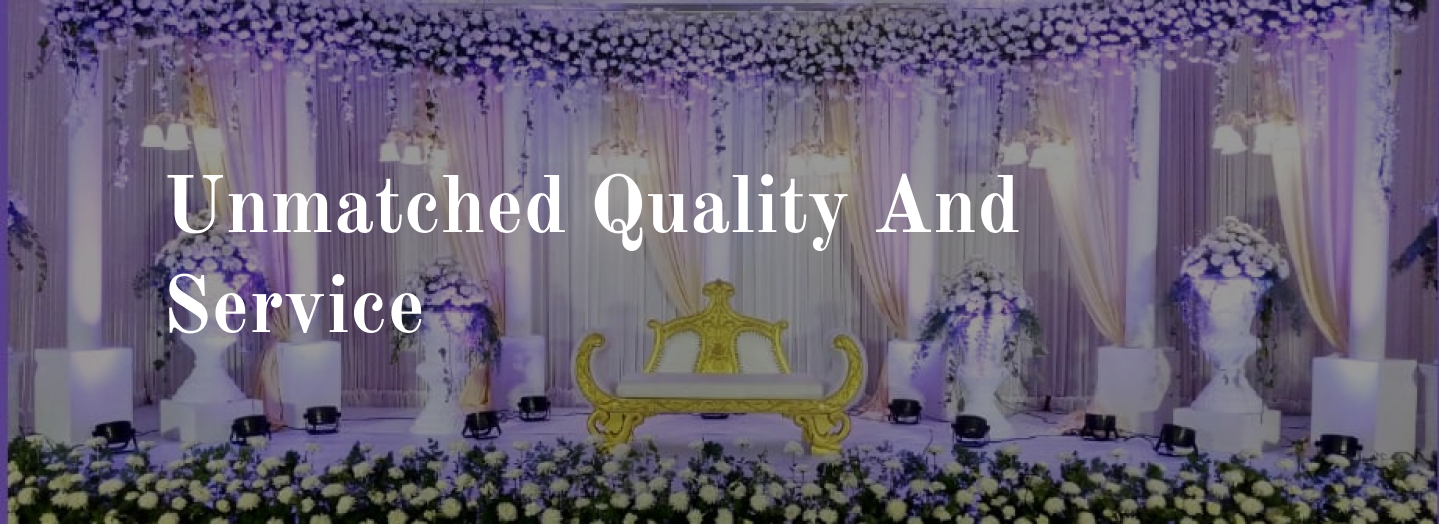
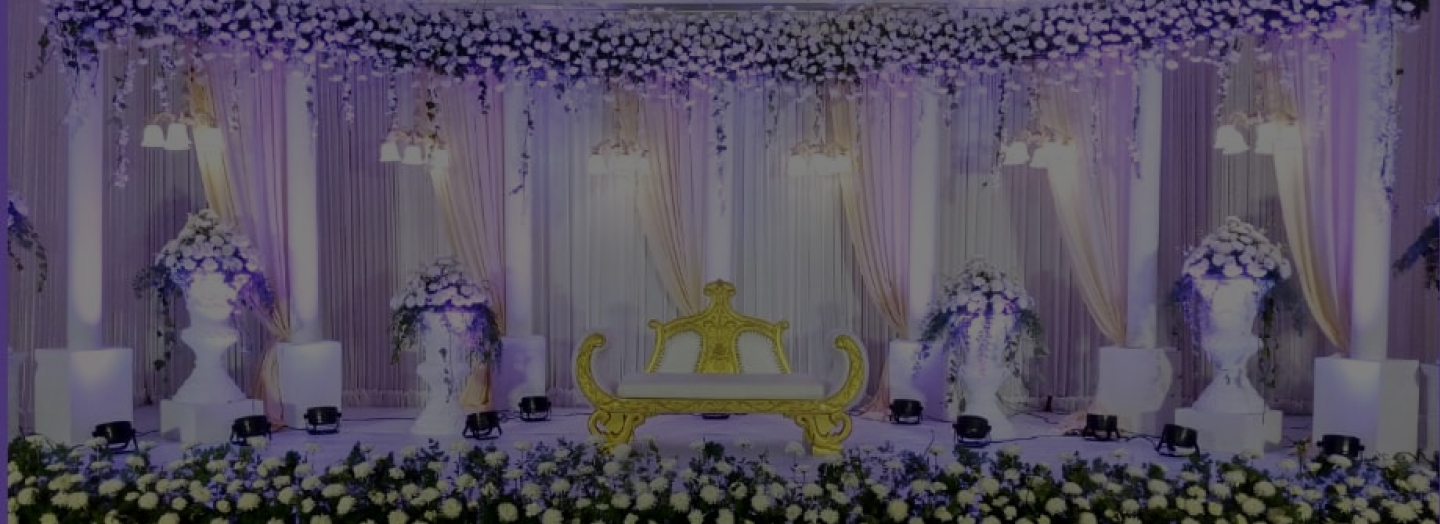
services page completed with responsiveness

diff --git a/src/Components/Services1.js b/src/Components/Services1.js
@@ -1,9 +1,10 @@
 import React from 'react'
-import bg5 from '../assets/WhatsApp Image 2024-05-08 at 11.44.10_e34a28c8.jpg';
-import bg1 from '../assets/coordination.png';
 import Cards from './Cards';
 import unmatch from '../assets/service unmatch.png';
-import hall from '../assets/hall1.png';
+import wedser from '../assets/WhatsApp Image 2024-05-08 at 11.44.10_9af52197.jpg';
+import entdecser from '../assets/EntranceDecorationServices.png';
+import birdecser from '../assets/BirthdayDecorationServices.png';
+import peacock from '../assets/PeacockBG.png';
 
 const Service1 = () => {
     return (
@@ -11,116 +12,127 @@ const Service1 = () => {
             <div>
                 <div>
                     <div>
-                        <p className='uppercase text-4xl font-serif mx-40 font-semibold my-8 text-blue-600'>Services We Offer</p>
+                        <p className='uppercase text-2xl md:text-4xl font-serif mx-4 md:mx-40 font-semibold my-8 text-blue-800'>Services We Offer</p>
                     </div>
                     <Cards />
                     <div>
-                        <p className='font-serif mx-8 md:mx-40 md:text-5xl text-3xl text-yellow-400 my-20 font-light'>
-                            Unmatched Quality and Service
+                        <div className='hidden md:flex justify-end py-0'>
+                            <img src={peacock} alt='peacock' className=''/>
+                        </div>
+                        <p className='font-serif mx-8 md:mx-40 md:text-5xl text-3xl my-10 md:my-0 text-blue-800 font-semibold'>
+                            Types Of Services We Offer
                         </p>
-                        <div className='grid md:grid-cols-2 grid-cols-1 mx-8 md:mx-40'>
-                            <div>
-                            <img src={unmatch} alt='unmatch' className='h-[100%] w-[100%]' />
+                        <div className='bg-gradient-to-b from-[#ffd8ab] via-ffd8ab to-[#eda754] mx-4 my-5 md:ml-40 md:mr-20 rounded-3xl md:my-10'>
+                            <div className='mx-8 md:mx-14 md:text-4xl text-2xl py-4 text-blue-800 font-semibold underline'>
+                                Unmatched Quality and Service
                             </div>
-                            <div>
-                                <p className='font-serif font-light leading-relaxed text-2xl md:mx-10 mx-0 my-2 md:my-0'>
-                                At Raja Decors, quality and service are at the heart of everything we do.
-                                 We source only the freshest blooms from trusted growers, hand-selecting
-                                  each stem for its beauty and vitality. Our commitment to excellence 
-                                  extends beyond our designs to our personalized service, ensuring a 
-                                  seamless and stress-free experience from concept to execution.
-                                </p>
-                            </div>
-                        </div>
-                        <p className='font-serif mx-8 md:mx-40 text-3xl md:text-5xl text-blue-600 my-20 font-light'>
-                        Wedding Reception & Mugurtham 
-                        </p>
-                        <div className='grid md:grid-cols-2 grid-cols-1 mx-8 md:mx-40'>
-                            <div>
-                            <img src={hall} alt='unmatch' className='h-[100%] w-[100%]' />
-                            </div>
-                            <div>
-                                <p className='font-serif font-light leading-relaxed text-2xl mx-0 md:mx-10 my-2 md:my-0'>
-                                At Raja Decors, quality and service are at the heart of everything we do.
-                                 We source only the freshest blooms from trusted growers, hand-selecting
-                                  each stem for its beauty and vitality. Our commitment to excellence 
-                                  extends beyond our designs to our personalized service, ensuring a 
-                                  seamless and stress-free experience from concept to execution.
-                                </p>
+                            <div className='grid md:grid-cols-2 grid-cols-1 mx-8 md:mx-14 py-2 pb-8'>
+                                <div>
+                                    <img src={unmatch} alt='unmatch' className='h-[100%] w-[100%] rounded-3xl' />
+                                </div>
+                                <div>
+                                    <p className='font-serif font-light leading-relaxed text-xl md:text-2xl md:mx-10 mx-0 my-2 md:my-0'>
+                                    At Raja Decors, quality and service are at the heart of everything we do.
+                                    We source only the freshest blooms from trusted growers, hand-selecting
+                                    each stem for its beauty and vitality. Our commitment to excellence 
+                                    extends beyond our designs to our personalized service, ensuring a 
+                                    seamless and stress-free experience from concept to execution.
+                                    </p>
+                                </div>
                             </div>
                         </div>
-                    </div>
-                </div>
-                <div className='grid md:grid-cols-3 grid-cols-1 md:mx-32 mx-10 space-y-6 md:space-y-10 my-10'>
-                    <div className='w-80 shadow-2xl drop-shadow-2xl border-gray-800 rounded-3xl px-3 py-4 hover:scale-105 transition transform'>
-                        <img src={bg5} alt='Decoration' className='w-[100%] h-60 rounded-md' height={100} width={100} />
-                        <div>
-                            <p className='text-xl font-serif my-3 font-semibold'>
-                                Wedding Decoration
-                            </p>
-                            <p className='text-sm my-3 font-light'>
-                                Wishing your Event held a grand
-                                style? We promise to provide the
-                                perfect decorations.
-                            </p>
-                            <button className='border border-[#F1518B] hover:bg-[#F1518B] hover:text-white px-16 py-2 rounded-3xl font-semibold'>Read More</button>
+
+                        <div className='bg-gradient-to-b from-[#ffd8ab] via-ffd8ab to-[#eda754] mx-4 my-5 md:ml-40 md:mr-20 rounded-3xl md:my-10'>
+                            <div className='mx-8 md:mx-24 md:text-4xl text-2xl py-4 text-blue-800 font-semibold underline'>
+                                Wedding Reception & Mugurtham
+                            </div>
+                            <div className='grid md:grid-cols-2 grid-cols-1 mx-8 md:mx-14 py-2 pb-8'>
+                                <div className='md:hidden'>
+                                    <img src={wedser} alt='wedser' className='h-[100%] w-[100%] rounded-3xl' />
+                                </div>
+                                <div>
+                                    <p className='font-serif font-light leading-relaxed text-xl md:text-2xl md:mx-10 mx-0 my-2 md:my-0'>
+                                        Our ceremonies blend cultural grace with contemporary elegance, 
+                                        merging tradition and modernity for cherished moments embodying 
+                                        love and commitment. Each celebration exudes timeless beauty and 
+                                        joy, uniting hearts in an ambiance of cultural richness and modern 
+                                        sophistication, creating unforgettable memories that last a lifetime.
+                                    </p>
+                                </div>
+                                <div className='hidden md:flex'>
+                                    <img src={wedser} alt='wedser' className='h-[100%] w-[100%] rounded-3xl' />
+                                </div>
+                            </div>
                         </div>
-                    </div>
-                    <div className='w-80 shadow-2xl drop-shadow-2xl border-gray-800 rounded-3xl px-3 py-4 hover:scale-105 transition transform'>
-                        <img src={bg5} alt='Catering' className='w-[100%] h-60 rounded-md' height={100} width={100} />
-                        <div>
-                            <p className='text-xl font-serif my-3 font-semibold'>
-                                Birthday Decoration
-                            </p>
-                            <p className='text-sm my-3 font-light'>
-                                Customized catering for any occasion.
-                                We tailor menus to your taste, ensuring every dish reflects
-                                your unique style and vision.
-                            </p>
-                            <button className='border border-[#F1518B] hover:bg-[#F1518B] hover:text-white px-16 py-2 rounded-3xl font-semibold'>Read More</button>
-                        </div>
-                    </div>
-                    <div className='w-80 shadow-2xl drop-shadow-2xl border-gray-800 rounded-3xl px-3 py-4 hover:scale-105 transition transform'>
-                        <img src={bg1} alt='coordination' className='w-[100%] h-60 rounded-md' height={100} width={100} />
-                        <div>
-                            <p className='text-xl font-serif my-3 font-semibold'>
-                                Corporate Events
-                            </p>
-                            <p className='text-sm my-3 font-light'>
-                                Event guidance tailored just for you,
-                                For seamless days without dismay,
-                                Trust our expertise to light the way
-                            </p>
-                            <button className='border border-[#F1518B] hover:bg-[#F1518B] hover:text-white px-16 py-2 rounded-3xl font-semibold'>Read More</button>
-                        </div>
-                    </div>
-                    <div className='w-80 shadow-2xl drop-shadow-2xl border-gray-800 rounded-3xl px-3 py-4 hover:scale-105 transition transform'>
-                        <img src={bg1} alt='coordination' className='w-[100%] h-60 rounded-md' height={100} width={100} />
-                        <div>
-                            <p className='text-xl font-serif my-3 font-semibold'>
+
+                        <div className='bg-gradient-to-b from-[#ffd8ab] via-ffd8ab to-[#eda754] mx-4 my-5 md:ml-40 md:mr-20 rounded-3xl md:my-10'>
+                            <div className='mx-8 md:mx-14 md:text-4xl text-2xl py-4 text-blue-800 font-semibold underline'>
                                 Entrance Decoration
-                            </p>
-                            <p className='text-sm my-3 font-light'>
-                                Guidance bespoke, for your special day,
-                                Seamless moments, no dismay.
-                                Trust our craft to light the way
-                            </p>
-                            <button className='border border-[#F1518B] hover:bg-[#F1518B] hover:text-white px-16 py-2 rounded-3xl font-semibold'>Read More</button>
+                            </div>
+                            <div className='grid md:grid-cols-2 grid-cols-1 mx-8 md:mx-14 py-2 pb-8'>
+                                <div>
+                                    <img src={entdecser} alt='entdecser' className='h-[100%] w-[100%] rounded-3xl' />
+                                </div>
+                                <div>
+                                    <p className='font-serif font-light leading-relaxed text-xl md:text-2xl md:mx-10 mx-0 my-2 md:my-0'>
+                                        Our grand entrance designs captivate, offering 
+                                        a preview of the unforgettable experiences awaiting 
+                                        within. Guests are enchanted, drawn into a realm of 
+                                        anticipation and wonder, setting the stage for an event 
+                                        filled with grandeur and delight. It's a prelude that 
+                                        ignites excitement, ensuring every moment is memorable and cherished.
+                                    </p>
+                                </div>
+                            </div>
                         </div>
-                    </div>
-                    <div className='w-80 shadow-2xl drop-shadow-2xl border-gray-800 rounded-3xl px-3 py-4 hover:scale-105 transition transform'>
-                        <img src={bg1} alt='coordination' className='w-[100%] h-60 rounded-md' height={100} width={100} />
-                        <div>
-                            <p className='text-xl font-serif my-3 font-semibold'>
-                                Familty Get together
-                            </p>
-                            <p className='text-sm my-3 font-light'>
-                                Tailored for your family, each event anew,
-                                Days of togetherness, without a single rue.
-                                Rely on our expertise, guiding the way true.
-                            </p>
-                            <button className='border border-[#F1518B] hover:bg-[#F1518B] hover:text-white px-16 py-2 rounded-3xl font-semibold'>Read More</button>
+
+                        <div className='bg-gradient-to-b from-[#ffd8ab] via-ffd8ab to-[#eda754] mx-4 my-5 md:ml-40 md:mr-20 rounded-3xl md:my-10'>
+                            <div className='mx-8 md:mx-24 md:text-4xl text-2xl py-4 text-blue-800 font-semibold underline'>
+                                Birthday Decoration 
+                            </div>
+                            <div className='grid md:grid-cols-2 grid-cols-1 mx-8 md:mx-14 py-2 pb-8'>
+                                <div className='md:hidden'>
+                                    <img src={birdecser} alt='birdecser' className='h-[100%] w-[100%] rounded-3xl' />
+                                </div>
+                                <div>
+                                    <p className='font-serif font-light leading-relaxed text-xl md:text-2xl md:mx-10 mx-0 my-2 md:my-0'>
+                                        Infusing spaces with whimsy and vibrancy, our birthday 
+                                        decorations create a realm of joy and celebration. 
+                                        Every corner is adorned with magical touches, transporting 
+                                        guests to an enchanting experience. With attention to detail 
+                                        and creativity, we ensure every moment is memorable, leaving 
+                                        all attendees with cherished memories of the festivities.
+                                    </p>
+                                </div>
+                                <div className='hidden md:flex'>
+                                    <img src={birdecser} alt='birdecser' className='h-[100%] w-[100%] rounded-3xl' />
+                                </div>
+                            </div>
                         </div>
+
+                        <div className='bg-gradient-to-b from-[#ffd8ab] via-ffd8ab to-[#eda754] mx-4 my-5 md:ml-40 md:mr-20 rounded-3xl md:my-10'>
+                            <div className='mx-8 md:mx-14 md:text-4xl text-2xl py-4 text-blue-800 font-semibold underline'>
+                                Corporate Event 
+                            </div>
+                            <div className='grid md:grid-cols-2 grid-cols-1 mx-8 md:mx-14 py-2 pb-8'>
+                                <div>
+                                    <img src={entdecser} alt='entdecser' className='h-[100%] w-[100%] rounded-3xl' />
+                                </div>
+                                <div>
+                                    <p className='font-serif font-light leading-relaxed text-xl md:text-2xl md:mx-10 mx-0 my-2 md:my-0'>
+                                        Combining professionalism and creativity, our corporate 
+                                        events epitomize sophistication and innovation. We offer 
+                                        a platform for successful engagements within an ambiance 
+                                        of refined elegance and dynamic energy. Tailored to exceed 
+                                        every expectation, our events seamlessly blend professionalism 
+                                        with creativity, ensuring memorable experiences that leave a 
+                                        lasting impression on attendees.
+                                    </p>
+                                </div>
+                            </div>
+                        </div>
+
+
                     </div>
                 </div>
             </div>

diff --git a/src/Pages/Services.jsx b/src/Pages/Services.jsx
@@ -6,7 +6,11 @@ const Services = () => {
   return (
     <div className='mt-10'>
       <div className='flex justify-center'>
-        <img src={servicepng} alt='servicepic'/>
+        <div className='bg-cover bg-center w-screen' style={{backgroundImage: `url(${servicepng})`}}>
+          <div className='text-white text-2xl md:text-7xl font-bold py-24 md:py-40 text-center'>
+           <p className='border-2 border-white mx-4 md:mx-40 py-10 md:py-8 rounded-2xl'>Raja Decors Service</p>
+          </div>
+        </div>
       </div>
       <Service1 />
       </div>
